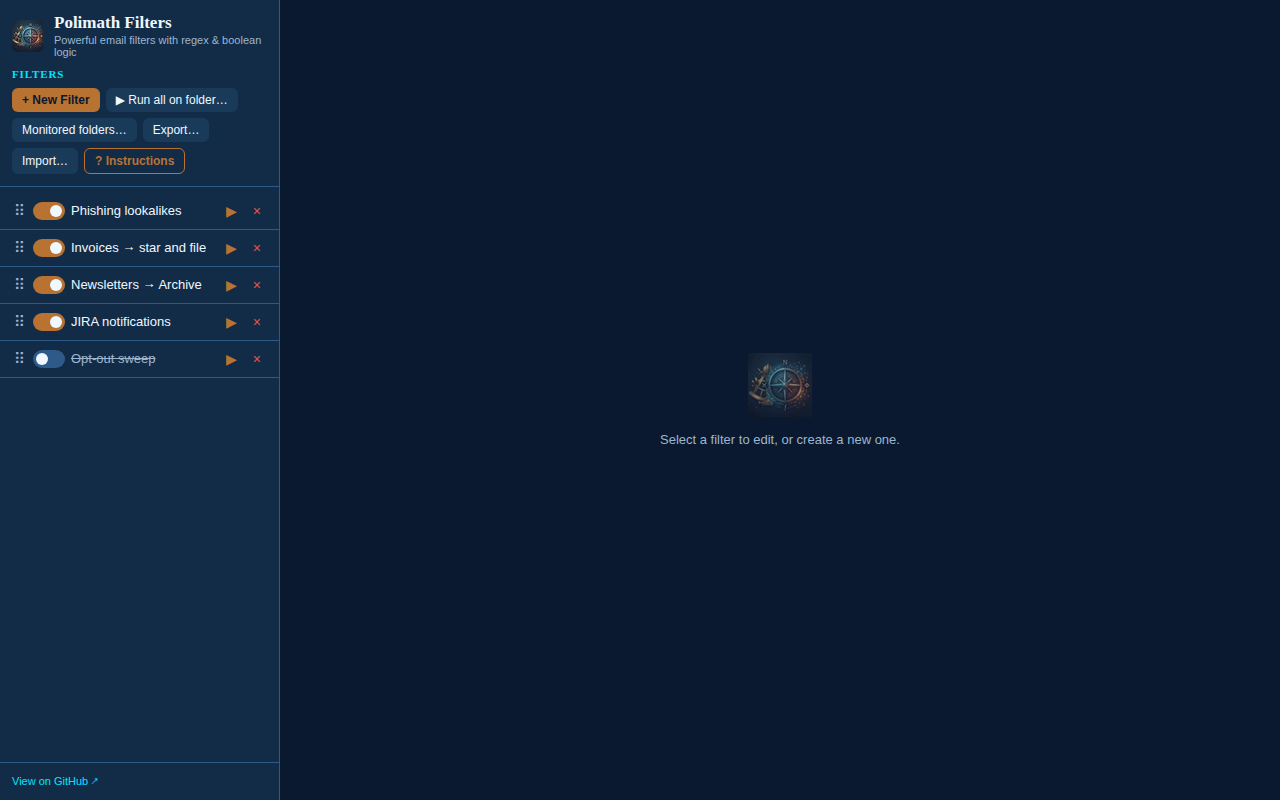
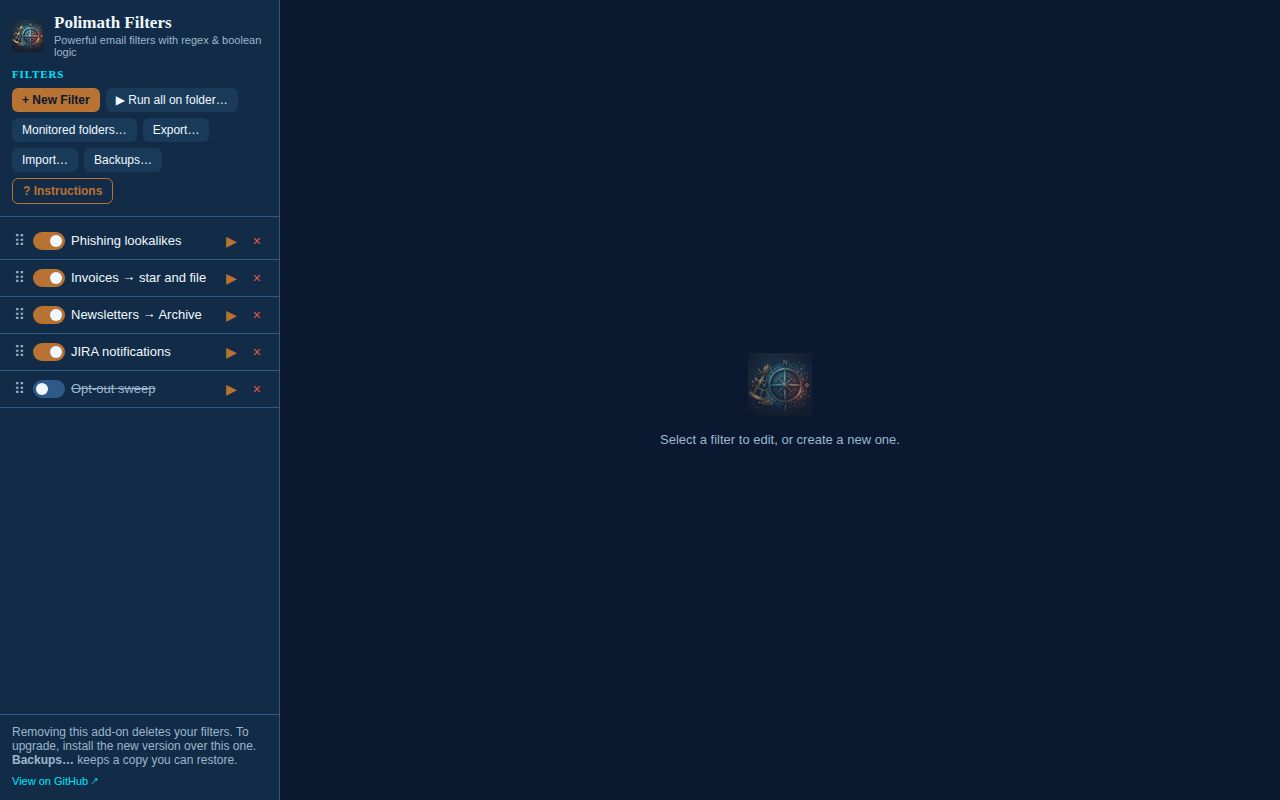
Update the ATN listing and screenshots for backups and import upgrades
The listing never mentioned backups, import upgrades, or that removing
the add-on deletes filters. The screenshot harness had also broken
silently: its storage mock only accepted a single key, so since 3.3.0
the options page loaded no filters, and it did not copy backup.js.
Regenerated screenshots 01-06.

Changed region(s): [[0.0, 0.1875, 0.1875, 0.5], [0.0, 0.9062, 0.2188, 0.9688]]

diff --git a/scripts/screenshot-harness/mock.js b/scripts/screenshot-harness/mock.js
@@ -146,17 +146,26 @@
   const store = {
     filters,
     monitoredFolders: [F.pInbox, F.wInbox],
+    schemaVersion: 4,
+    // Backups already set up, so the listing shots show the editor, not the offer banner.
+    backupSettings: { enabled: true, accountId: "account://personal", promptDismissed: true },
   };
 
   window.messenger = {
     storage: {
       local: {
-        get: async key => (key in store ? { [key]: store[key] } : {}),
+        get: async keys => {
+          const wanted = keys == null ? Object.keys(store) : [].concat(keys);
+          return Object.fromEntries(wanted.filter(k => k in store).map(k => [k, store[k]]));
+        },
         set: async obj => Object.assign(store, obj),
       },
     },
     accounts: {
       list: async () => [folders.personal, folders.work],
+    },
+    folders: {
+      query: async () => [],
     },
     messages: {
       tags: {

diff --git a/docs/atn-listing.md b/docs/atn-listing.md
@@ -11,7 +11,7 @@ Thunderbird window and must be recaptured by hand if the Add-ons Manager changes
 
 ## Summary (250 characters max)
 
-Replaces Thunderbird's filter editor with one that supports regular expressions, nested AND / OR / NOT logic, and Unicode lookalike (homoglyph) detection. Runs on new mail in folders you choose. Collects nothing.
+Replaces Thunderbird's filter editor with one that supports regular expressions, nested AND / OR / NOT logic, and Unicode lookalike (homoglyph) detection. Runs on new mail in folders you choose, with optional automatic backups. Collects nothing.
 
 ## Description
 
@@ -37,7 +37,9 @@ Polimath Filters has no toolbar button. Open its editor from <b>Tools → Add-on
 <li>Filters run top to bottom, and every matching filter applies. Drag the <b>⠿</b> handle to reorder.</li>
 <li>The switch next to each filter enables or disables it. <b>×</b> deletes it.</li>
 <li><b>▶</b> next to a filter runs just that filter on a folder you pick. <b>▶ Run all on folder…</b> runs every enabled filter. Both offer <b>Dry Run</b>, which lists the messages that would match without changing anything. Try a dry run before running a new filter for real.</li>
-<li><b>Export…</b> and <b>Import…</b> save and load filters as JSON, for backup or to move them to another profile. Move-to-folder targets may need re-selecting after import on a different machine.</li>
+<li><b>Backups…</b> turns on automatic backups, saved as messages in a "Polimath Filters Backups" folder in the account you choose: the newest of each day for 30 days, then the newest of each month. <b>Restore from mail…</b> brings any backup back, and after a reinstall the editor offers to restore the newest one.</li>
+<li><b>Export…</b> and <b>Import…</b> save and load filters as JSON, for backup or to move them to another profile. Files from older versions are upgraded as they are imported, and anything that did not carry over (a missing move target, folder, or tag, an invalid regex) is listed under that filter.</li>
+<li><b>Removing the add-on deletes your filters.</b> To upgrade, install the new version over the old one instead of removing it first.</li>
 </ul>
 
 <b>Tips</b>
@@ -63,7 +65,7 @@ Upload in this order. The first one is the listing's lead image.
 | File | Caption |
 |---|---|
 | `00-entry-point.png` | Where to find it: in Tools → Add-ons and Themes, click the wrench (Add-on Options) on the Polimath Filters card. |
-| `01-filter-list.png` | The filter list. Toggle, reorder, run, or delete filters; the buttons at the top open folder monitoring, import/export, and instructions. |
+| `01-filter-list.png` | The filter list. Toggle, reorder, run, or delete filters; the buttons at the top open folder monitoring, import/export, backups, and instructions. |
 | `02-editor-regex-and-not.png` | A filter combining a regular expression with a NOT group, two actions, and a move-to-folder ending. |
 | `03-editor-confusables.png` | Catching lookalike-character phishing: an OR group of "has confusable character" and "confusable with paypal". |
 | `04-monitored-folders.png` | Choose which folders are watched for new mail. |
